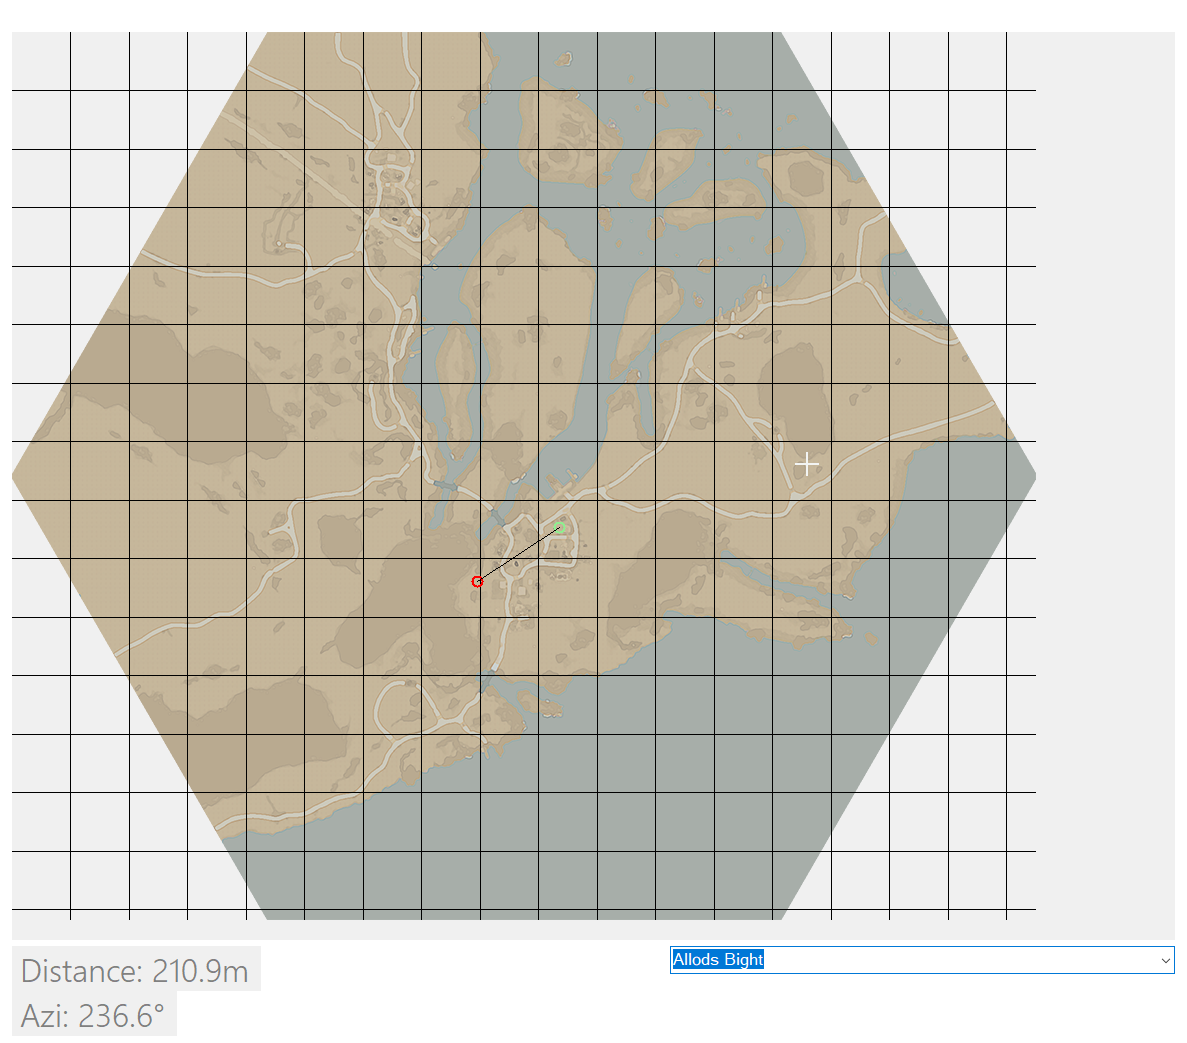
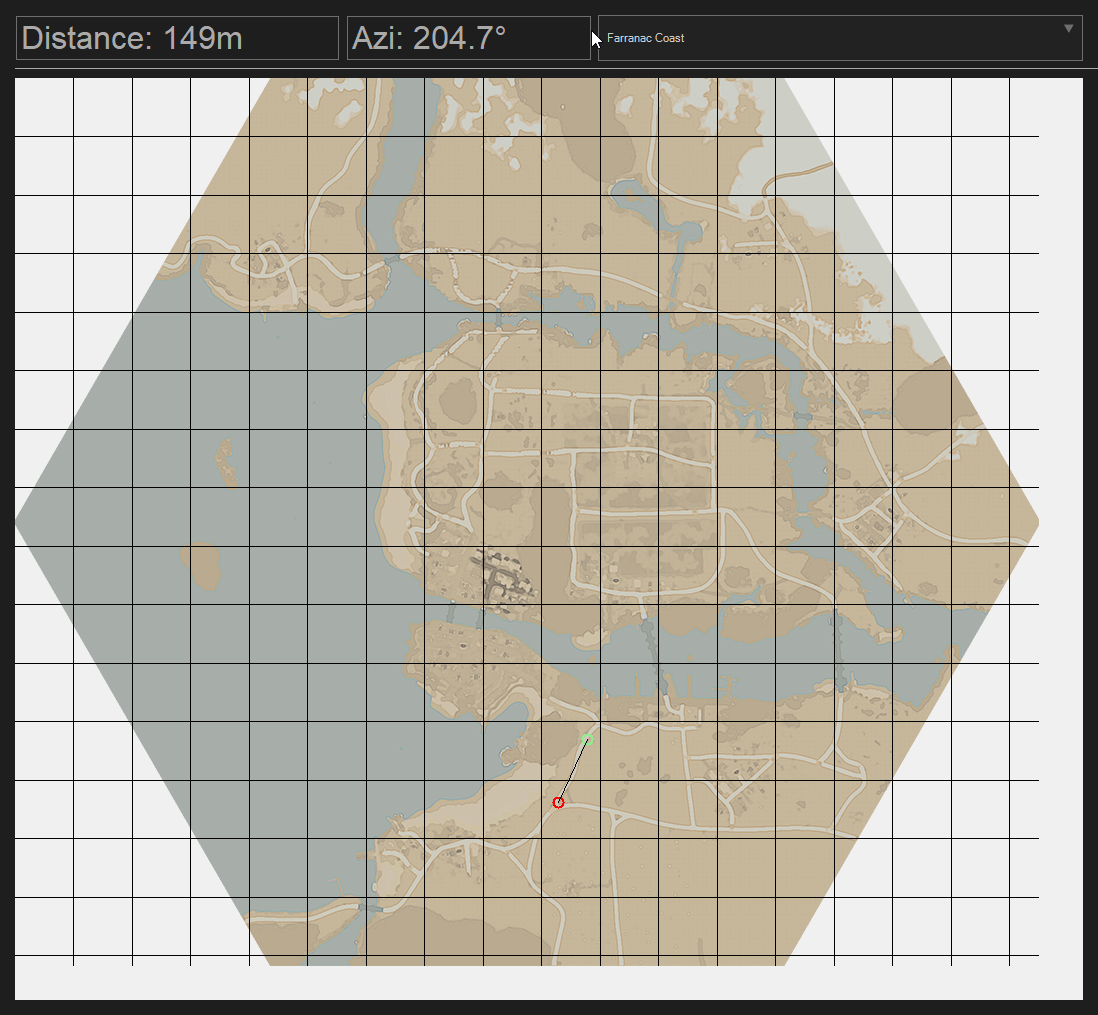
Changed theme/design to dark

diff --git a/Form1.Designer.cs b/Form1.Designer.cs
@@ -30,10 +30,15 @@ namespace foxhole_intelarty
         private void InitializeComponent()
         {
             this.imgBoxMap = new System.Windows.Forms.PictureBox();
-            this.mapTileCmb = new System.Windows.Forms.ComboBox();
-            this.dtsLbl = new System.Windows.Forms.Label();
-            this.aziLbl = new System.Windows.Forms.Label();
+            this.mapTileCmb = new MetroSet_UI.Controls.MetroSetComboBox();
+            this.dtsLbl = new MetroSet_UI.Controls.MetroSetLabel();
+            this.aziLbl = new MetroSet_UI.Controls.MetroSetLabel();
+            this.metroSetDivider1 = new MetroSet_UI.Controls.MetroSetDivider();
+            this.metroSetPanel1 = new MetroSet_UI.Controls.MetroSetPanel();
+            this.metroSetPanel2 = new MetroSet_UI.Controls.MetroSetPanel();
             ((System.ComponentModel.ISupportInitialize)(this.imgBoxMap)).BeginInit();
+            this.metroSetPanel1.SuspendLayout();
+            this.metroSetPanel2.SuspendLayout();
             this.SuspendLayout();
             // 
             // imgBoxMap
@@ -42,72 +47,160 @@ namespace foxhole_intelarty
             | System.Windows.Forms.AnchorStyles.Left) 
             | System.Windows.Forms.AnchorStyles.Right)));
             this.imgBoxMap.Cursor = System.Windows.Forms.Cursors.Cross;
-            this.imgBoxMap.Location = new System.Drawing.Point(12, 32);
+            this.imgBoxMap.Location = new System.Drawing.Point(15, 78);
             this.imgBoxMap.Name = "imgBoxMap";
-            this.imgBoxMap.Size = new System.Drawing.Size(1163, 908);
+            this.imgBoxMap.Size = new System.Drawing.Size(1068, 922);
             this.imgBoxMap.TabIndex = 0;
             this.imgBoxMap.TabStop = false;
             this.imgBoxMap.MouseClick += new System.Windows.Forms.MouseEventHandler(this.imgBoxMap_MouseClick);
             // 
             // mapTileCmb
             // 
-            this.mapTileCmb.Anchor = ((System.Windows.Forms.AnchorStyles)((System.Windows.Forms.AnchorStyles.Bottom | System.Windows.Forms.AnchorStyles.Right)));
+            this.mapTileCmb.AllowDrop = true;
+            this.mapTileCmb.Anchor = ((System.Windows.Forms.AnchorStyles)((System.Windows.Forms.AnchorStyles.Top | System.Windows.Forms.AnchorStyles.Right)));
+            this.mapTileCmb.ArrowColor = System.Drawing.Color.FromArgb(((int)(((byte)(110)))), ((int)(((byte)(110)))), ((int)(((byte)(110)))));
+            this.mapTileCmb.BackColor = System.Drawing.Color.Transparent;
+            this.mapTileCmb.BackgroundColor = System.Drawing.Color.FromArgb(((int)(((byte)(34)))), ((int)(((byte)(34)))), ((int)(((byte)(34)))));
+            this.mapTileCmb.BorderColor = System.Drawing.Color.FromArgb(((int)(((byte)(110)))), ((int)(((byte)(110)))), ((int)(((byte)(110)))));
+            this.mapTileCmb.CausesValidation = false;
+            this.mapTileCmb.DisabledBackColor = System.Drawing.Color.FromArgb(((int)(((byte)(80)))), ((int)(((byte)(80)))), ((int)(((byte)(80)))));
+            this.mapTileCmb.DisabledBorderColor = System.Drawing.Color.FromArgb(((int)(((byte)(109)))), ((int)(((byte)(109)))), ((int)(((byte)(109)))));
+            this.mapTileCmb.DisabledForeColor = System.Drawing.Color.FromArgb(((int)(((byte)(109)))), ((int)(((byte)(109)))), ((int)(((byte)(109)))));
+            this.mapTileCmb.DrawMode = System.Windows.Forms.DrawMode.OwnerDrawFixed;
+            this.mapTileCmb.DropDownHeight = 600;
+            this.mapTileCmb.DropDownStyle = System.Windows.Forms.ComboBoxStyle.DropDownList;
+            this.mapTileCmb.Font = new System.Drawing.Font("Arial", 18F, System.Drawing.FontStyle.Regular, System.Drawing.GraphicsUnit.Point);
             this.mapTileCmb.FormattingEnabled = true;
-            this.mapTileCmb.Location = new System.Drawing.Point(670, 946);
+            this.mapTileCmb.IntegralHeight = false;
+            this.mapTileCmb.IsDerivedStyle = true;
+            this.mapTileCmb.ItemHeight = 40;
+            this.mapTileCmb.Location = new System.Drawing.Point(598, 15);
+            this.mapTileCmb.MaxDropDownItems = 16;
             this.mapTileCmb.Name = "mapTileCmb";
-            this.mapTileCmb.Size = new System.Drawing.Size(505, 28);
-            this.mapTileCmb.TabIndex = 1;
-            this.mapTileCmb.SelectedIndexChanged += new System.EventHandler(this.mapTileCmb_SelectedIndexChanged);
+            this.mapTileCmb.RightToLeft = System.Windows.Forms.RightToLeft.Yes;
+            this.mapTileCmb.SelectedItemBackColor = System.Drawing.Color.FromArgb(((int)(((byte)(65)))), ((int)(((byte)(177)))), ((int)(((byte)(225)))));
+            this.mapTileCmb.SelectedItemForeColor = System.Drawing.Color.White;
+            this.mapTileCmb.Size = new System.Drawing.Size(485, 46);
+            this.mapTileCmb.Style = MetroSet_UI.Enums.Style.Dark;
+            this.mapTileCmb.StyleManager = null;
+            this.mapTileCmb.TabIndex = 4;
+            this.mapTileCmb.ThemeAuthor = "Narwin";
+            this.mapTileCmb.ThemeName = "MetroDark";
+            this.mapTileCmb.SelectedIndexChanged += new System.EventHandler(this.mapTileCmb_SelectedIndexChanged_1);
             // 
             // dtsLbl
             // 
-            this.dtsLbl.Anchor = ((System.Windows.Forms.AnchorStyles)((System.Windows.Forms.AnchorStyles.Bottom | System.Windows.Forms.AnchorStyles.Left)));
-            this.dtsLbl.AutoSize = true;
-            this.dtsLbl.Font = new System.Drawing.Font("Segoe UI", 24F, System.Drawing.FontStyle.Regular, System.Drawing.GraphicsUnit.Point);
-            this.dtsLbl.Location = new System.Drawing.Point(12, 946);
+            this.dtsLbl.Font = new System.Drawing.Font("Arial", 24F, System.Drawing.FontStyle.Regular, System.Drawing.GraphicsUnit.Point);
+            this.dtsLbl.IsDerivedStyle = true;
+            this.dtsLbl.Location = new System.Drawing.Point(0, 0);
             this.dtsLbl.Name = "dtsLbl";
-            this.dtsLbl.Size = new System.Drawing.Size(152, 45);
-            this.dtsLbl.TabIndex = 2;
+            this.dtsLbl.Size = new System.Drawing.Size(265, 46);
+            this.dtsLbl.Style = MetroSet_UI.Enums.Style.Dark;
+            this.dtsLbl.StyleManager = null;
+            this.dtsLbl.TabIndex = 5;
             this.dtsLbl.Text = "Distance: ";
+            this.dtsLbl.TextAlign = System.Drawing.ContentAlignment.MiddleLeft;
+            this.dtsLbl.ThemeAuthor = "Narwin";
+            this.dtsLbl.ThemeName = "MetroDark";
             // 
             // aziLbl
             // 
-            this.aziLbl.Anchor = ((System.Windows.Forms.AnchorStyles)((System.Windows.Forms.AnchorStyles.Bottom | System.Windows.Forms.AnchorStyles.Left)));
-            this.aziLbl.AutoSize = true;
-            this.aziLbl.Font = new System.Drawing.Font("Segoe UI", 24F, System.Drawing.FontStyle.Regular, System.Drawing.GraphicsUnit.Point);
-            this.aziLbl.Location = new System.Drawing.Point(12, 991);
+            this.aziLbl.Font = new System.Drawing.Font("Arial", 24F, System.Drawing.FontStyle.Regular, System.Drawing.GraphicsUnit.Point);
+            this.aziLbl.IsDerivedStyle = true;
+            this.aziLbl.Location = new System.Drawing.Point(0, 0);
             this.aziLbl.Name = "aziLbl";
-            this.aziLbl.Size = new System.Drawing.Size(78, 45);
-            this.aziLbl.TabIndex = 3;
-            this.aziLbl.Text = "Azi: ";
+            this.aziLbl.Size = new System.Drawing.Size(265, 46);
+            this.aziLbl.Style = MetroSet_UI.Enums.Style.Dark;
+            this.aziLbl.StyleManager = null;
+            this.aziLbl.TabIndex = 6;
+            this.aziLbl.Text = "Azimuth: ";
+            this.aziLbl.TextAlign = System.Drawing.ContentAlignment.MiddleLeft;
+            this.aziLbl.ThemeAuthor = "Narwin";
+            this.aziLbl.ThemeName = "MetroDark";
+            // 
+            // metroSetDivider1
+            // 
+            this.metroSetDivider1.IsDerivedStyle = true;
+            this.metroSetDivider1.Location = new System.Drawing.Point(15, 67);
+            this.metroSetDivider1.Name = "metroSetDivider1";
+            this.metroSetDivider1.Orientation = MetroSet_UI.Enums.DividerStyle.Horizontal;
+            this.metroSetDivider1.Size = new System.Drawing.Size(1089, 4);
+            this.metroSetDivider1.Style = MetroSet_UI.Enums.Style.Dark;
+            this.metroSetDivider1.StyleManager = null;
+            this.metroSetDivider1.TabIndex = 7;
+            this.metroSetDivider1.Text = "metroSetDivider1";
+            this.metroSetDivider1.ThemeAuthor = "Narwin";
+            this.metroSetDivider1.ThemeName = "MetroDark";
+            this.metroSetDivider1.Thickness = 1;
+            // 
+            // metroSetPanel1
+            // 
+            this.metroSetPanel1.BackgroundColor = System.Drawing.Color.FromArgb(((int)(((byte)(30)))), ((int)(((byte)(30)))), ((int)(((byte)(30)))));
+            this.metroSetPanel1.BorderColor = System.Drawing.Color.FromArgb(((int)(((byte)(110)))), ((int)(((byte)(110)))), ((int)(((byte)(110)))));
+            this.metroSetPanel1.BorderThickness = 1;
+            this.metroSetPanel1.Controls.Add(this.dtsLbl);
+            this.metroSetPanel1.IsDerivedStyle = true;
+            this.metroSetPanel1.Location = new System.Drawing.Point(15, 15);
+            this.metroSetPanel1.Name = "metroSetPanel1";
+            this.metroSetPanel1.Size = new System.Drawing.Size(325, 46);
+            this.metroSetPanel1.Style = MetroSet_UI.Enums.Style.Dark;
+            this.metroSetPanel1.StyleManager = null;
+            this.metroSetPanel1.TabIndex = 8;
+            this.metroSetPanel1.ThemeAuthor = "Narwin";
+            this.metroSetPanel1.ThemeName = "MetroDark";
+            // 
+            // metroSetPanel2
+            // 
+            this.metroSetPanel2.BackgroundColor = System.Drawing.Color.FromArgb(((int)(((byte)(30)))), ((int)(((byte)(30)))), ((int)(((byte)(30)))));
+            this.metroSetPanel2.BorderColor = System.Drawing.Color.FromArgb(((int)(((byte)(110)))), ((int)(((byte)(110)))), ((int)(((byte)(110)))));
+            this.metroSetPanel2.BorderThickness = 1;
+            this.metroSetPanel2.Controls.Add(this.aziLbl);
+            this.metroSetPanel2.IsDerivedStyle = true;
+            this.metroSetPanel2.Location = new System.Drawing.Point(346, 15);
+            this.metroSetPanel2.Name = "metroSetPanel2";
+            this.metroSetPanel2.Size = new System.Drawing.Size(246, 46);
+            this.metroSetPanel2.Style = MetroSet_UI.Enums.Style.Dark;
+            this.metroSetPanel2.StyleManager = null;
+            this.metroSetPanel2.TabIndex = 8;
+            this.metroSetPanel2.ThemeAuthor = "Narwin";
+            this.metroSetPanel2.ThemeName = "MetroDark";
             // 
             // Form1
             // 
             this.AutoScaleDimensions = new System.Drawing.SizeF(10F, 20F);
             this.AutoScaleMode = System.Windows.Forms.AutoScaleMode.Font;
-            this.ClientSize = new System.Drawing.Size(1187, 1043);
-            this.Controls.Add(this.aziLbl);
-            this.Controls.Add(this.dtsLbl);
+            this.BackgroundColor = System.Drawing.Color.FromArgb(((int)(((byte)(30)))), ((int)(((byte)(30)))), ((int)(((byte)(30)))));
+            this.ClientSize = new System.Drawing.Size(1098, 1015);
+            this.Controls.Add(this.metroSetPanel2);
+            this.Controls.Add(this.metroSetPanel1);
+            this.Controls.Add(this.metroSetDivider1);
             this.Controls.Add(this.mapTileCmb);
             this.Controls.Add(this.imgBoxMap);
             this.Name = "Form1";
             this.Padding = new System.Windows.Forms.Padding(12, 90, 12, 12);
             this.ShowLeftRect = false;
+            this.ShowTitle = false;
+            this.Style = MetroSet_UI.Enums.Style.Dark;
             this.Text = "FORM1";
             this.TextColor = System.Drawing.Color.White;
+            this.ThemeName = "MetroDark";
             this.Load += new System.EventHandler(this.Form1_Load);
             ((System.ComponentModel.ISupportInitialize)(this.imgBoxMap)).EndInit();
+            this.metroSetPanel1.ResumeLayout(false);
+            this.metroSetPanel2.ResumeLayout(false);
             this.ResumeLayout(false);
-            this.PerformLayout();
 
         }
 
         #endregion
 
         private System.Windows.Forms.PictureBox imgBoxMap;
-        private System.Windows.Forms.ComboBox mapTileCmb;
-        private System.Windows.Forms.Label dtsLbl;
-        private System.Windows.Forms.Label aziLbl;
+        private MetroSet_UI.Controls.MetroSetComboBox mapTileCmb;
+        private MetroSet_UI.Controls.MetroSetLabel dtsLbl;
+        private MetroSet_UI.Controls.MetroSetLabel aziLbl;
+        private MetroSet_UI.Controls.MetroSetDivider metroSetDivider1;
+        private MetroSet_UI.Controls.MetroSetPanel metroSetPanel1;
+        private MetroSet_UI.Controls.MetroSetPanel metroSetPanel2;
     }
 }
 

diff --git a/Form1.cs b/Form1.cs
@@ -111,11 +111,6 @@ namespace foxhole_intelarty
             return NewValue;
         }
 
-        private void mapTileCmb_SelectedIndexChanged(object sender, EventArgs e)
-        {
-            updateImg();
-        }
-
         private void imgBoxMap_MouseClick(object sender, System.Windows.Forms.MouseEventArgs e)
         {
             int circleSizeInt = 10;
@@ -145,7 +140,10 @@ namespace foxhole_intelarty
             }
         }
 
-
+        private void mapTileCmb_SelectedIndexChanged_1(object sender, EventArgs e)
+        {
+            updateImg();
+        }
     }
 }
  
